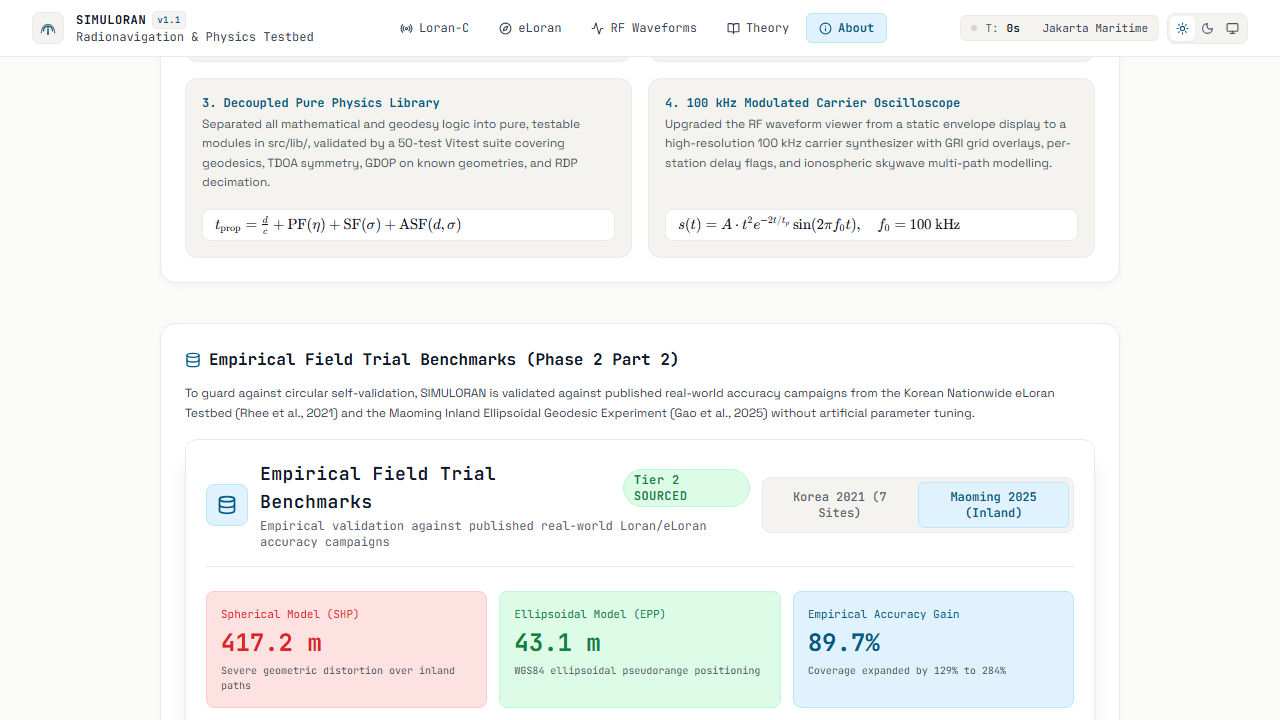
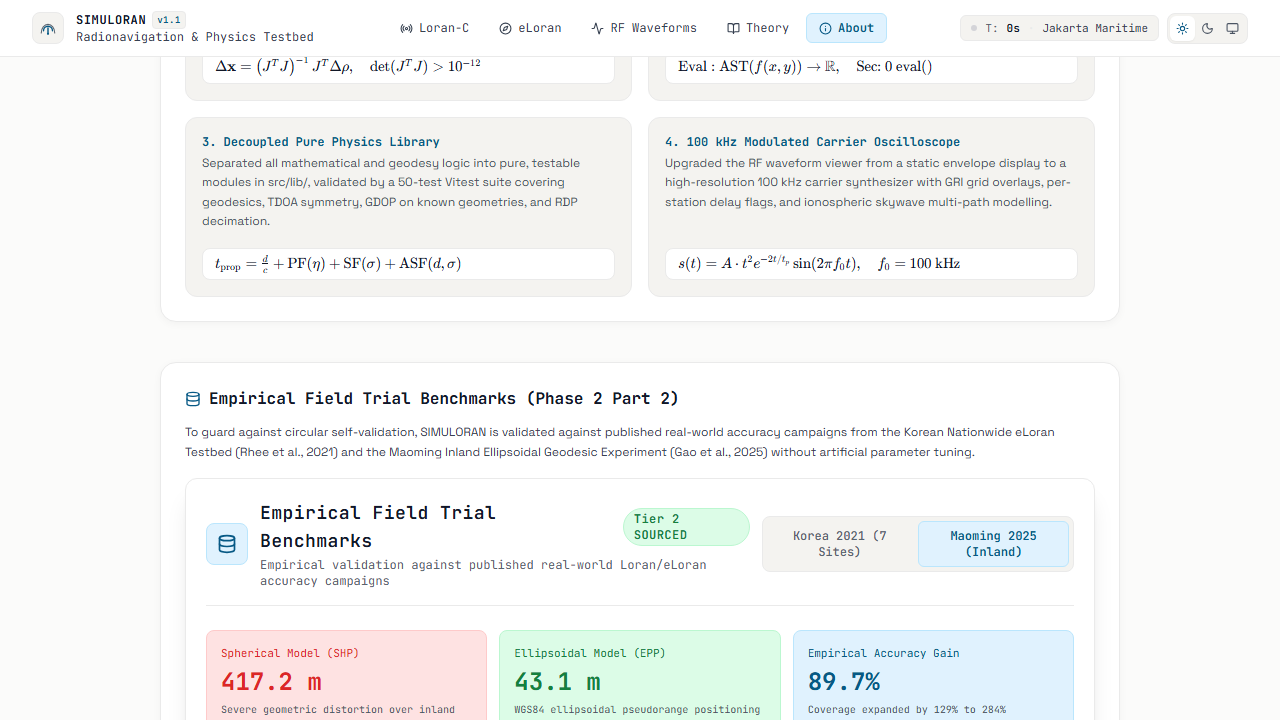
ui: resolve theme contrast across svg charts, oscilloscope, popups, and buttons

diff --git a/src/components/charts/CycleSelectionPanel.jsx b/src/components/charts/CycleSelectionPanel.jsx
@@ -137,7 +137,7 @@ export default function CycleSelectionPanel() {
                 onChange={(e) => setShowTheoretical(e.target.checked)}
                 className="accent-cyan-400"
               />
-              <span className="w-3 h-0.5 bg-cyan-400 inline-block"></span> Theoretical Rician Ratio
+              <span className="w-3 h-0.5 inline-block" style={{ background: 'var(--accent-eloran)' }}></span> Theoretical Rician Ratio
             </label>
             <label className="flex items-center gap-1.5 cursor-pointer" style={{ color: 'var(--status-ok)' }}>
               <input
@@ -146,7 +146,7 @@ export default function CycleSelectionPanel() {
                 onChange={(e) => setShowAustronNew(e.target.checked)}
                 className="accent-emerald-400"
               />
-              <span className="w-3 h-0.5 bg-emerald-400 border-b border-dashed inline-block"></span> Austron New (28 µs)
+              <span className="w-3 h-0.5 border-b border-dashed inline-block" style={{ background: 'var(--status-ok)' }}></span> Austron New (28 µs)
             </label>
             <label className="flex items-center gap-1.5 cursor-pointer text-[var(--status-warn)]">
               <input
@@ -155,16 +155,16 @@ export default function CycleSelectionPanel() {
                 onChange={(e) => setShowAustronOld(e.target.checked)}
                 className="accent-amber-400"
               />
-              <span className="w-3 h-0.5 bg-amber-400 border-b border-dotted inline-block"></span> Austron Old (42 µs)
+              <span className="w-3 h-0.5 border-b border-dotted inline-block" style={{ background: 'var(--status-warn)' }}></span> Austron Old (42 µs)
             </label>
-            <label className="flex items-center gap-1.5 cursor-pointer text-fuchsia-300">
+            <label className="flex items-center gap-1.5 cursor-pointer text-fuchsia-700 dark:text-fuchsia-300">
               <input
                 type="checkbox"
                 checked={showMonteCarlo}
                 onChange={(e) => setShowMonteCarlo(e.target.checked)}
                 className="accent-fuchsia-400"
               />
-              <span className="w-2.5 h-2.5 rounded-full bg-fuchsia-400 inline-block"></span> Monte Carlo ({numTrials} trials)
+              <span className="w-2.5 h-2.5 rounded-full bg-fuchsia-600 dark:bg-fuchsia-400 inline-block"></span> Monte Carlo ({numTrials} trials)
             </label>
           </div>
         </div>
@@ -173,15 +173,15 @@ export default function CycleSelectionPanel() {
         <div className="relative bg-[var(--bg-canvas)] rounded-xl border border-[var(--border-subtle)]/90 p-2 overflow-hidden shadow-inner">
           <svg viewBox="0 0 800 380" className="w-full h-72">
             {/* Grid background */}
-            <rect x="60" y="40" width="700" height="300" fill="#09090b" rx="4" />
+            <rect x="60" y="40" width="700" height="300" fill="var(--bg-surface)" stroke="var(--border-subtle)" strokeWidth="1" rx="4" />
 
             {/* Horizontal logarithmic gridlines (10^0, 10^-1, 10^-2, 10^-3, 10^-4) */}
             {[-4, -3, -2, -1, 0].map((exp) => {
               const y = mapY(Math.pow(10, exp));
               return (
                 <g key={`ygrid-${exp}`}>
-                  <line x1="60" y1={y} x2="760" y2={y} stroke="#27272a" strokeWidth="0.8" strokeDasharray={exp === 0 ? 'none' : '3 3'} />
-                  <text x="52" y={y + 3} fill="#71717a" fontSize="10" fontFamily="monospace" textAnchor="end">
+                  <line x1="60" y1={y} x2="760" y2={y} stroke="var(--border-subtle)" strokeWidth="0.8" strokeDasharray={exp === 0 ? 'none' : '3 3'} />
+                  <text x="52" y={y + 3} fill="var(--text-secondary)" fontSize="10" fontFamily="monospace" textAnchor="end">
                     10{exp === 0 ? '\u2070' : exp === -1 ? '\u207B\u00B9' : exp === -2 ? '\u207B\u00B2' : exp === -3 ? '\u207B\u00B3' : '\u207B\u2074'}
                   </text>
                 </g>
@@ -193,8 +193,8 @@ export default function CycleSelectionPanel() {
               const x = mapX(db);
               return (
                 <g key={`xgrid-${db}`}>
-                  <line x1={x} y1="40" x2={x} y2="340" stroke="#27272a" strokeWidth="0.8" strokeDasharray="3 3" />
-                  <text x={x} y="358" fill="#71717a" fontSize="10" fontFamily="monospace" textAnchor="middle">
+                  <line x1={x} y1="40" x2={x} y2="340" stroke="var(--border-subtle)" strokeWidth="0.8" strokeDasharray="3 3" />
+                  <text x={x} y="358" fill="var(--text-secondary)" fontSize="10" fontFamily="monospace" textAnchor="middle">
                     {db} dB
                   </text>
                 </g>
@@ -202,22 +202,22 @@ export default function CycleSelectionPanel() {
             })}
 
             {/* Axis labels */}
-            <text x="410" y="375" fill="#a1a1aa" fontSize="11" fontFamily="monospace" textAnchor="middle">
+            <text x="410" y="375" fill="var(--text-primary)" fontSize="11" fontFamily="monospace" textAnchor="middle">
               {"Total SNR [dB] = 10 \u00B7 log\u2081\u2080(N \u00B7 SNR)"}
             </text>
-            <text x="18" y="190" fill="#a1a1aa" fontSize="11" fontFamily="monospace" textAnchor="middle" transform="rotate(-90 18 190)">
+            <text x="18" y="190" fill="var(--text-primary)" fontSize="11" fontFamily="monospace" textAnchor="middle" transform="rotate(-90 18 190)">
               P[Wrong Cycle Selection]
             </text>
 
             {/* Curves */}
             {showAustronOld && (
-              <path d={austronOldPath} fill="none" stroke="#f59e0b" strokeWidth="1.8" strokeDasharray="4 4" opacity="0.9" />
+              <path d={austronOldPath} fill="none" stroke="var(--status-warn)" strokeWidth="1.8" strokeDasharray="4 4" opacity="0.9" />
             )}
             {showAustronNew && (
-              <path d={austronNewPath} fill="none" stroke="#10b981" strokeWidth="1.8" strokeDasharray="6 3" opacity="0.9" />
+              <path d={austronNewPath} fill="none" stroke="var(--status-ok)" strokeWidth="1.8" strokeDasharray="6 3" opacity="0.9" />
             )}
             {showTheoretical && (
-              <path d={ricePath} fill="none" stroke="#06b6d4" strokeWidth="2.2" opacity="0.95" />
+              <path d={ricePath} fill="none" stroke="var(--accent-eloran)" strokeWidth="2.2" opacity="0.95" />
             )}
 
             {/* Monte Carlo scatter markers */}

diff --git a/src/components/panels/ChainDesignPanel.jsx b/src/components/panels/ChainDesignPanel.jsx
@@ -293,7 +293,7 @@ export default function ChainDesignPanel() {
       >
         <div className="flex items-center justify-between">
           <div className="flex items-center gap-1.5 font-bold text-[11px]">
-            <span className="w-2.5 h-2.5 rounded-full bg-[#06b6d4] inline-block border border-white shrink-0" />
+            <span className="w-2.5 h-2.5 rounded-full inline-block shrink-0" style={{ background: 'var(--accent-eloran)' }} />
             <span style={{ color: 'var(--accent-eloran)' }}>Master Station ({master.label})</span>
           </div>
           <span className="text-[10px]" style={{ color: 'var(--text-dim)' }}>Pulse Group 0 µs</span>
@@ -354,7 +354,7 @@ export default function ChainDesignPanel() {
           >
             <div className="flex items-center justify-between">
               <div className="flex items-center gap-1.5 font-bold text-[11px]">
-                <span className="w-2.5 h-2.5 rounded-full bg-[#f59e0b] inline-block border border-white shrink-0" />
+                <span className="w-2.5 h-2.5 rounded-full inline-block shrink-0" style={{ background: 'var(--accent-loran-c)' }} />
                 <span style={{ color: 'var(--accent-loran-c)' }}>Secondary {sec.label}</span>
                 <span className="text-[10px] font-normal" style={{ color: 'var(--text-dim)' }}>
                   ({sec.name || `Station ${sec.label}`})
@@ -362,7 +362,7 @@ export default function ChainDesignPanel() {
               </div>
               <button
                 onClick={() => removeDesignSecondary(idx)}
-                className="p-1 rounded text-zinc-500 hover:text-rose-400 hover:bg-rose-500/10 transition"
+                className="p-1 rounded-md transition" style={{ color: 'var(--text-muted)' }} onMouseEnter={e => { e.currentTarget.style.color = 'var(--status-danger)'; e.currentTarget.style.background = 'var(--status-danger-subtle)'; }} onMouseLeave={e => { e.currentTarget.style.color = 'var(--text-muted)'; e.currentTarget.style.background = 'transparent'; }}
                 title={`Remove secondary ${sec.label}`}
               >
                 <Trash2 size={13} aria-hidden="true" />

diff --git a/src/components/charts/PulseViewer.jsx b/src/components/charts/PulseViewer.jsx
@@ -253,10 +253,10 @@ export default function PulseViewer() {
     URL.revokeObjectURL(url);
   };
 
-  const clrEloran = '#06b6d4';
-  const clrLoranC = '#f59e0b';
-  const clrGrid   = '#1e293b';
-  const clrGri    = '#d97706';
+  const clrEloran = 'var(--accent-eloran)';
+  const clrLoranC = 'var(--accent-loran-c)';
+  const clrGrid   = 'var(--border-subtle)';
+  const clrGri    = 'var(--accent-loran-c)';
 
   return (
     <div className="space-y-6">
@@ -389,7 +389,7 @@ export default function PulseViewer() {
           </div>
           <div className="flex items-center gap-3 text-[11px]" style={{ color: 'var(--text-dim)' }}>
             <span className="flex items-center gap-1.5">
-              <span className="w-3 h-0.5 inline-block rounded" style={{ background: '#ef4444' }} />
+              <span className="w-3 h-0.5 inline-block rounded" style={{ background: 'var(--status-danger)' }} />
               Pulse Envelope E(t)
             </span>
             <span className="flex items-center gap-1.5">
@@ -468,7 +468,7 @@ export default function PulseViewer() {
               <polyline
                 points={envelopePoints}
                 fill="none"
-                stroke="#ef4444"
+                stroke="var(--status-danger)"
                 strokeWidth="2"
                 strokeLinejoin="round"
                 opacity="0.95"

diff --git a/src/components/panels/DisplayPanel.jsx b/src/components/panels/DisplayPanel.jsx
@@ -262,7 +262,7 @@ export default function DisplayPanel({ isELoran = false }) {
         <button
           onClick={handleComputeContours}
           disabled={isComputing}
-          className="w-full flex items-center justify-center gap-2 py-2.5 px-4 bg-[var(--accent-eloran)] hover:bg-[var(--accent-eloran-border)] disabled:opacity-50 text-black font-semibold rounded-lg font-mono text-xs uppercase tracking-wider shadow-lg transition mt-2 cursor-pointer"
+          className="w-full flex items-center justify-center gap-2 py-2.5 px-4 bg-[var(--accent-eloran)] hover:bg-[var(--accent-eloran-border)] disabled:opacity-50 text-[var(--btn-eloran-text)] font-semibold rounded-lg font-mono text-xs uppercase tracking-wider shadow-lg transition mt-2 cursor-pointer"
         >
           <Activity size={15} className={isComputing ? 'animate-spin' : ''} />
           {isComputing ? 'Computing Grid Off-Thread...' : 'Generate LOP Contours'}

diff --git a/src/components/map/MapView.jsx b/src/components/map/MapView.jsx
@@ -784,8 +784,8 @@ export default function MapView({ onMapClick, isELoran = false }) {
           const content = `
             <div class="font-mono text-xs">
               <div class="font-bold text-amber-500 mb-1">Baseline Extension Hazard Zone</div>
-              <div class="text-[11px] text-zinc-300">Station: ${p.stationId || ''} (${p.stationRole || ''})</div>
-              <div class="text-[10px] text-zinc-400 mt-1">${p.description || 'Ambiguous hyperbolic gradient.'}</div>
+              <div class="text-[11px] text-[var(--text-secondary)]">Station: ${p.stationId || ''} (${p.stationRole || ''})</div>
+              <div class="text-[10px] text-[var(--text-muted)] mt-1">${p.description || 'Ambiguous hyperbolic gradient.'}</div>
             </div>
           `;
           new maplibregl.Popup({ offset: 10 }).setLngLat(e.lngLat).setHTML(content).addTo(map);

diff --git a/src/components/panels/ClockPanel.jsx b/src/components/panels/ClockPanel.jsx
@@ -59,7 +59,7 @@ export default function ClockPanel() {
             className="flex-1 flex items-center justify-center gap-1.5 py-1.5 px-3 rounded-lg text-xs font-semibold transition"
             style={isSimRunning
               ? { background: 'var(--status-warn-subtle)', border: '1px solid var(--status-warn-border)', color: 'var(--status-warn)' }
-              : { background: 'var(--accent-eloran)', color: 'var(--bg-canvas)', border: '1px solid transparent' }}
+              : { background: 'var(--accent-eloran)', color: 'var(--btn-eloran-text)', border: '1px solid transparent' }}
           >
             {isSimRunning ? <><Pause size={14} /> Pause</> : <><Play size={14} /> Run Clock</>}
           </button>

diff --git a/src/components/panels/TrialValidationPanel.jsx b/src/components/panels/TrialValidationPanel.jsx
@@ -105,7 +105,7 @@ export function TrialValidationPanel({ compact = false }) {
               }
             : {
                 background: 'var(--accent-eloran)',
-                color: '#ffffff',
+                color: 'var(--btn-eloran-text)',
                 border: '1px solid transparent',
               }}
         >
@@ -317,7 +317,7 @@ export function TrialValidationPanel({ compact = false }) {
                   }
                 : {
                     background: 'var(--accent-eloran)',
-                    color: '#ffffff',
+                color: 'var(--btn-eloran-text)',
                     border: '1px solid transparent',
                   }}
             >

diff --git a/src/components/ui/ErrorBoundary.jsx b/src/components/ui/ErrorBoundary.jsx
@@ -43,7 +43,7 @@ export default class ErrorBoundary extends React.Component {
           <button
             onClick={() => this.setState({ hasError: false, error: null })}
             className="mt-6 inline-flex items-center gap-2 px-5 py-2.5 font-semibold text-xs uppercase tracking-wider rounded-lg transition"
-            style={{ background: 'var(--accent-eloran)', color: 'var(--bg-canvas)' }}
+            style={{ background: 'var(--accent-eloran)', color: 'var(--btn-eloran-text)' }}
           >
             <RefreshCw size={14} /> Dismiss &amp; Reset
           </button>

diff --git a/src/components/ui/Modal.jsx b/src/components/ui/Modal.jsx
@@ -68,7 +68,7 @@ export default function Modal({
           <button
             onClick={() => onConfirm?.(value)}
             className="px-4 py-2 text-xs font-semibold uppercase tracking-wider rounded-lg transition font-mono"
-            style={{ background: 'var(--accent-eloran)', color: 'var(--bg-canvas)', border: '1px solid transparent' }}
+            style={{ background: 'var(--accent-eloran)', color: 'var(--btn-eloran-text)', border: '1px solid transparent' }}
           >
             Confirm
           </button>

diff --git a/src/pages/Waveforms.jsx b/src/pages/Waveforms.jsx
@@ -69,7 +69,7 @@ export default function Waveforms() {
                 onClick={() => setActiveTab(tab)}
                 className="px-3 py-1.5 rounded transition"
                 style={activeTab === tab
-                  ? { background: 'var(--accent-eloran)', color: 'var(--bg-canvas)', fontWeight: 700 }
+                  ? { background: 'var(--accent-eloran)', color: 'var(--btn-eloran-text)', fontWeight: 700 }
                   : { color: 'var(--text-dim)' }
                 }
               >
